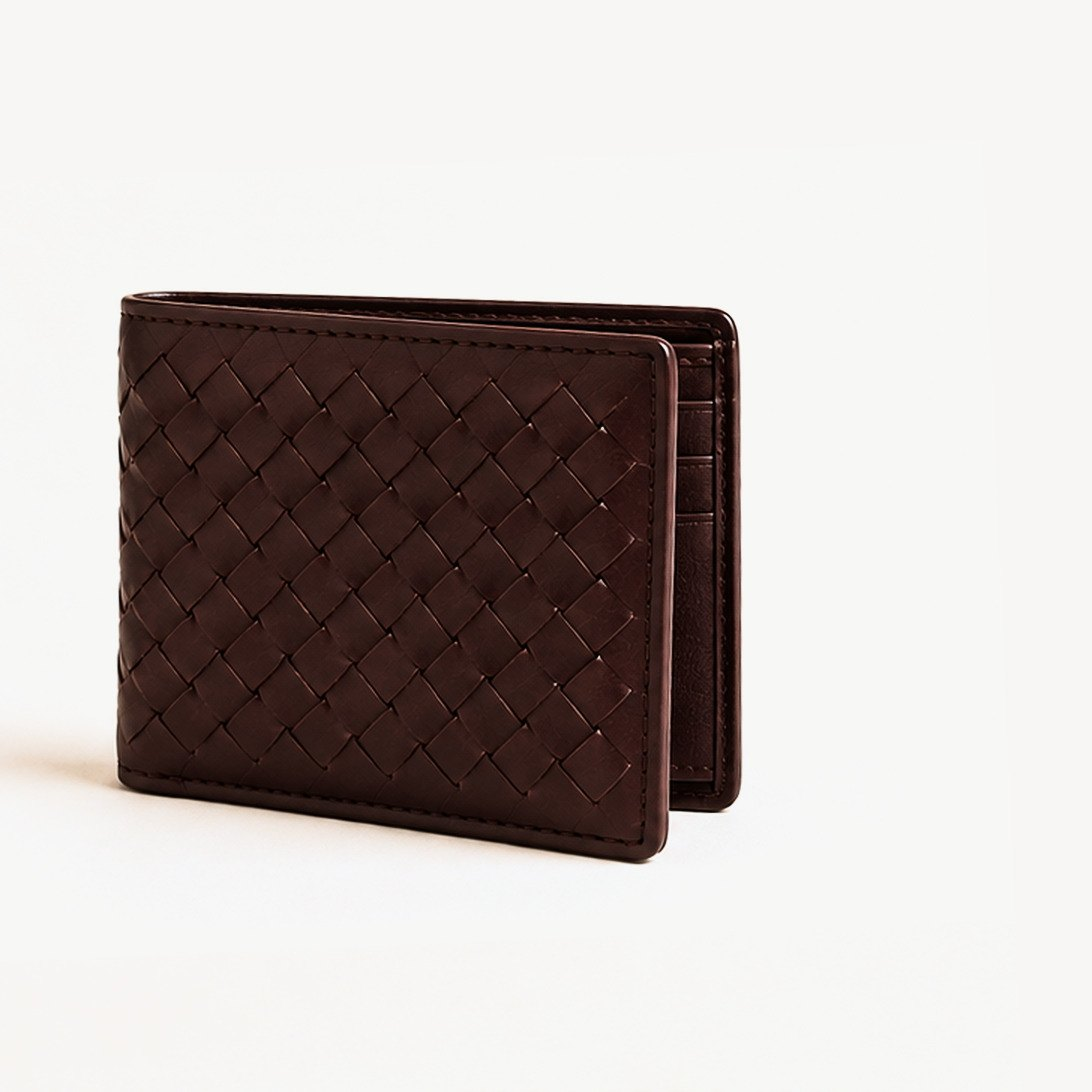
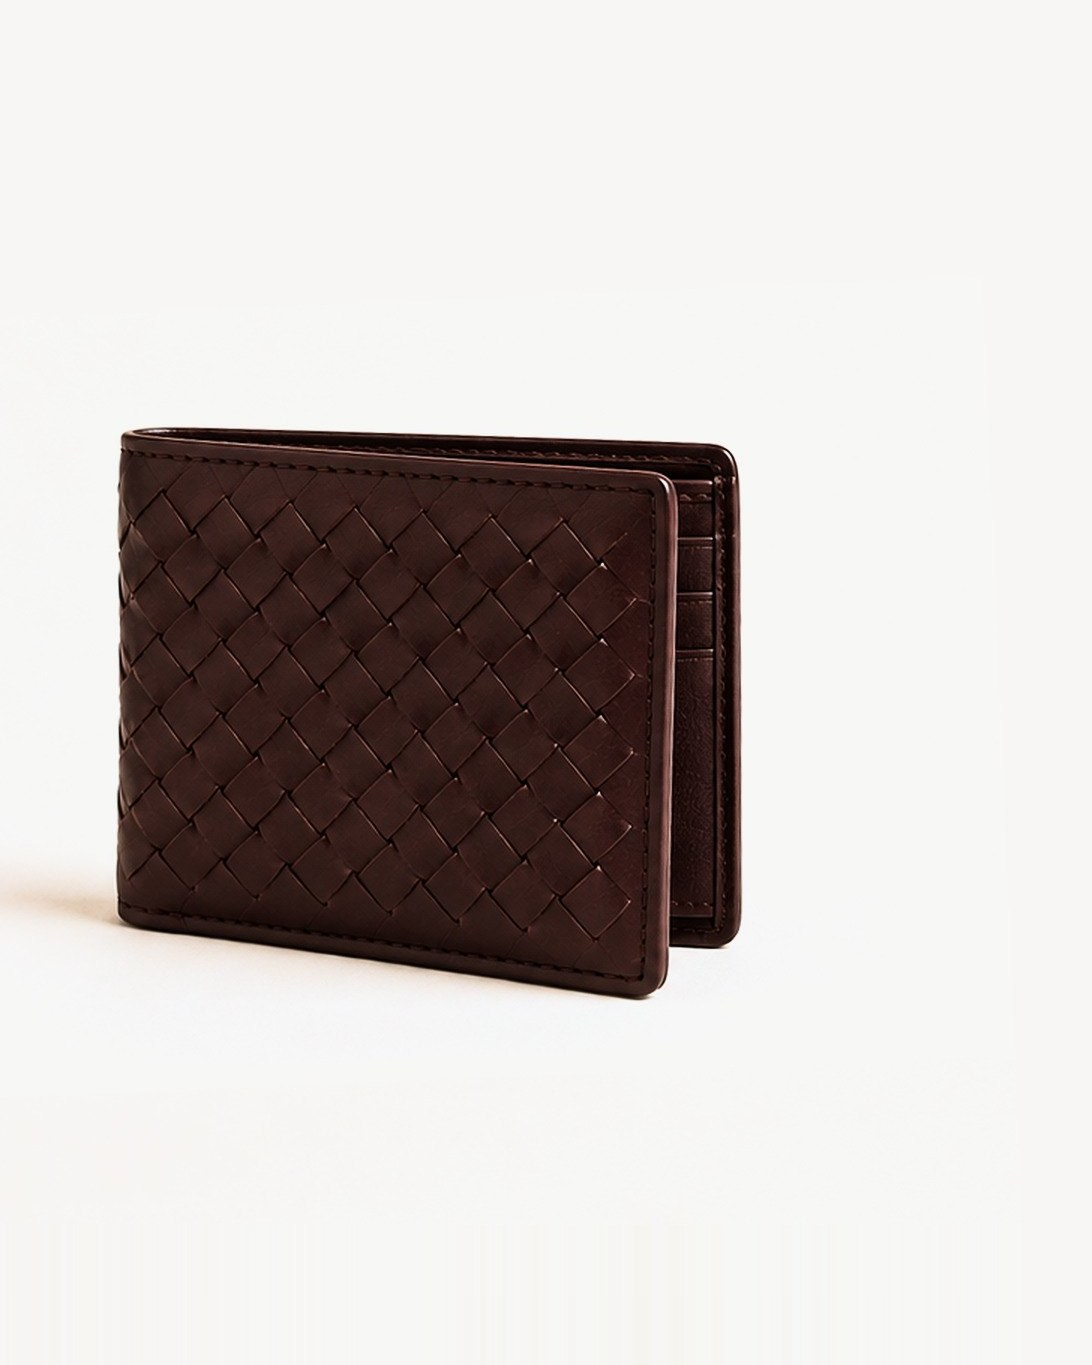
Centre the wordmark; stop the 4:5 frame cropping products
Two faults introduced by the fifth category and the newer photography.

The header used justify-between across three children, so the wordmark sat
wherever the nav and the right-hand cluster happened to leave it. A fifth
category widened the left side and pushed it visibly off centre. Lay the
bar out as [1fr auto 1fr] instead: the outer tracks are equal by
construction, so the wordmark is centred regardless of what the nav
carries. Measured at 0.0px offset from 390px to 1440px.

Five nav items need ~520px per side, which only exists from xl up — at lg
the nav overflowed its track and wrapped "Small Goods" onto two lines, and
even at xl it butted against the wordmark. Move the desktop nav to xl,
tighten its gap and pad the wordmark track. Below xl the drawer already
carries every link, so nothing becomes unreachable.

The product frame is 4:5 with object-cover, but only six of the fifteen
packshots were near that ratio. The rest were silently cropped — Siena is
landscape and lost 55% of its width, taking both handles with it; the
seven square shots lost 20%. Rather than crop, pad each packshot out to
4:5 by stretching its outermost rows or columns, so the studio ground
extends and the product is never cut. Every piece now sits whole in frame,
with no seam where the ground was extended.

Claude-Session: https://claude.ai/code/session_01Hg15rm9n5fWZL3pYQiH989

diff --git a/src/components/site-header.tsx b/src/components/site-header.tsx
@@ -47,13 +47,17 @@ export default function SiteHeader() {
           scrolled ? "border-b hairline shadow-[0_1px_20px_rgba(32,27,22,0.05)]" : ""
         }`}
       >
+        {/* Three tracks, not justify-between: the outer two are equal 1fr, so
+            the wordmark in the auto-width centre track is optically centred no
+            matter how many categories the nav carries. */}
         <div
-          className={`mx-auto flex max-w-7xl items-center justify-between px-6 transition-all duration-500 lg:px-10 ${
+          className={`mx-auto grid max-w-7xl grid-cols-[1fr_auto_1fr] items-center px-6 transition-all duration-500 lg:px-10 ${
             scrolled ? "py-3" : "py-5"
           }`}
         >
+          <div className="flex min-w-0 items-center justify-start">
           <button
-            className="flex items-center gap-2 text-xs uppercase tracking-widest-plus lg:hidden"
+            className="flex items-center gap-2 text-xs uppercase tracking-widest-plus xl:hidden"
             onClick={() => setMenuOpen((v) => !v)}
             aria-label="Toggle menu"
             aria-expanded={menuOpen}
@@ -73,21 +77,22 @@ export default function SiteHeader() {
             {menuOpen ? "Close" : "Menu"}
           </button>
 
-          <nav className="hidden items-center gap-6 lg:flex xl:gap-8">
+          <nav className="hidden items-center gap-5 xl:flex xl:gap-6">
             {categories.map((c) => (
               <Link
                 key={c.slug}
                 href={`/shop/${c.slug}`}
-                className="link-line text-xs uppercase tracking-widest-plus text-ink-soft transition-colors hover:text-ink"
+                className="link-line whitespace-nowrap text-xs uppercase tracking-widest-plus text-ink-soft transition-colors hover:text-ink"
               >
                 {c.shortName}
               </Link>
             ))}
           </nav>
+          </div>
 
           <Link
             href="/"
-            className="transition-opacity hover:opacity-70"
+            className="justify-self-center px-6 transition-opacity hover:opacity-70"
             aria-label="Isvena — home"
           >
             <Image
@@ -102,17 +107,17 @@ export default function SiteHeader() {
             />
           </Link>
 
-          <div className="flex items-center gap-5 lg:gap-7">
+          <div className="flex min-w-0 items-center justify-end gap-5 lg:gap-7">
             <CurrencyToggle className="hidden sm:flex" />
             <Link
               href="/heritage"
-              className="link-line hidden text-xs uppercase tracking-widest-plus text-ink-soft transition-colors hover:text-ink lg:inline"
+              className="link-line hidden whitespace-nowrap text-xs uppercase tracking-widest-plus text-ink-soft transition-colors hover:text-ink xl:inline"
             >
               Heritage
             </Link>
             <Link
               href="/contact"
-              className="link-line hidden text-xs uppercase tracking-widest-plus text-ink-soft transition-colors hover:text-ink lg:inline"
+              className="link-line hidden whitespace-nowrap text-xs uppercase tracking-widest-plus text-ink-soft transition-colors hover:text-ink xl:inline"
             >
               Contact
             </Link>
@@ -136,7 +141,7 @@ export default function SiteHeader() {
 
       {/* Mobile drawer */}
       <div
-        className={`overflow-hidden bg-ivory transition-[max-height] duration-500 ease-out lg:hidden ${
+        className={`overflow-hidden bg-ivory transition-[max-height] duration-500 ease-out xl:hidden ${
           menuOpen ? "max-h-[70vh] border-b hairline" : "max-h-0"
         }`}
       >
